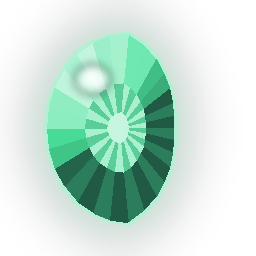
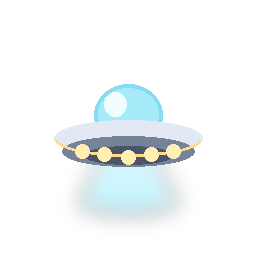
Bonanza: the feed, the skip, the saucer - seven fixes across the game
1. DOUBLE CHANCE on is dark-and-gold now, never a gold slab: a glowing
   frame and a warm wash over the same dark panel, every line readable
2. the balance stays frozen through a whole feature: the 20s hold
   watchdog is re-armed each free spin (refreshHold in balanceStore),
   settling once when the last spin ends
3. pressing SPIN (or SPACE) during a round SKIPS it: sleeps drop to
   0.15x, the picture rides --fx, and the button shows a red stop
   square while the reels run; each feature round earns its own skip
4. big wins: no more screen shake; the total slams to full size when
   the count finishes or is skipped
5. popped winners STAY collapsed until the refill replaces them -
   clearing the pop classes early snapped them back to full size for a
   beat, which is why they never seemed to pop away
6. the equation veil is GONE: at settlement every symbol left on the
   board is dragged into its nearest black hole and eaten (distance-
   staggered spiral, sparks feeding), then the combined multiplier
   slams in over the open board - the holes never leave sight, which
   was also why they seemed to vanish
7. the green low symbol is a flying saucer now (silver hull, cyan dome,
   gold rim lights, tractor glow) - the emerald has no twin. Engine id
   unchanged; only art and label

Machine-verified: ante design, frozen balance across a 24s window,
skip timing (2.8s vs 22s), stop-square button, pops holding, saucer on
[…]

diff --git a/web/src/space/BonanzaSpace.jsx b/web/src/space/BonanzaSpace.jsx
@@ -15,7 +15,7 @@
 import { useState, useEffect, useRef, useCallback, useMemo } from "react";
 import { useNavigate } from "react-router-dom";
 import { apiPost, apiGet } from "../api";
-import { useBalance, holdBalance, releaseBalance } from "../lib/balanceStore";
+import { useBalance, holdBalance, releaseBalance, refreshHold } from "../lib/balanceStore";
 import { fmtMKD } from "./format";
 import { beep, sfx, whoosh, useVol, cycleVol, VOL_LABELS, startAmbient, armAmbientOnGesture } from "./spaceAudio";
 import { useMaxBet } from "./limits";
@@ -28,13 +28,13 @@ const COLS = 6, ROWS = 5, CELLS = COLS * ROWS;
 const GEM = "/space/gems/";
 const LOW = ["citrine", "amethyst", "rose", "jade"];
 const NAMES = {
-  citrine: "CITRINE", amethyst: "AMETHYST", rose: "ROSE", jade: "JADE",
+  citrine: "CITRINE", amethyst: "AMETHYST", rose: "ROSE", jade: "SAUCER",
   sapphire: "SAPPHIRE", emerald: "EMERALD", lunar: "LUNAR", ruby: "RUBY", scatter: "COMET",
 };
 const src = (id) => GEM + (id === "scatter" ? "comet" : id) + ".png";
 // shard colour per symbol — the debris should be the colour of the thing that broke
 const SPARK = {
-  citrine: "#ffc44a", amethyst: "#b074ff", rose: "#ff7eb2", jade: "#56e0a0",
+  citrine: "#ffc44a", amethyst: "#b074ff", rose: "#ff7eb2", jade: "#5fd9e8",
   sapphire: "#56a2ff", emerald: "#34e28c", lunar: "#dfe7f5", ruby: "#ff5260", scatter: "#ffd68a",
 };
 // cell index -> percentage centre inside the grid
@@ -262,6 +262,7 @@ export default function BonanzaSpace() {
   const [ante, setAnte] = useState(false);
   const [turbo, setTurbo] = useState(false);
   const [spaceTurbo, setSpaceTurbo] = useState(false); // armed by HOLDING space
+  const [ff, setFf] = useState(false);             // second press = skip the reveal
   const [table, setTable] = useState(null);
   const [rules, setRules] = useState(false);
   const [error, setError] = useState("");
@@ -280,12 +281,14 @@ export default function BonanzaSpace() {
   const [introOut, setIntroOut] = useState(false); // the congrats plaque shrinking away
   const [dropMode, setDropMode] = useState("open"); // open = staggered rain, tumble = one fast drop
   const [buyAsk, setBuyAsk] = useState(false);     // ARE YOU SURE before money leaves
-  const [mathShow, setMathShow] = useState(null);  // the meteor equation banner
+  const [devour, setDevour] = useState(null);      // cell -> vector into its black hole
+  const [multBadge, setMultBadge] = useState(null); // the combined multiplier slam
 
   const deadRef = useRef(false);
   const heldRef = useRef(false);
   const timers = useRef([]);
   const armRef = useRef(null);                     // the hold-to-turbo timer
+  const ffRef = useRef(false);
   const turboRef = useRef(false);
   turboRef.current = turbo || spaceTurbo;
   const startedRef = useRef(null);                // resolved when START is pressed
@@ -298,13 +301,13 @@ export default function BonanzaSpace() {
   const payRowsRef = useRef([]);
 
   const later = (fn, ms) => { const t = setTimeout(fn, ms); timers.current.push(t); return t; };
-  const sleep = (ms) => new Promise((res) => later(res, Math.round(ms * (turboRef.current ? 0.35 : 1))));
+  const sleep = (ms) => new Promise((res) => later(res, Math.round(ms * (turboRef.current ? 0.35 : 1) * (ffRef.current ? 0.15 : 1))));
   // The reference ticks its WIN line linearly at ~30 steps a second and never
   // snaps; this drives ours the same way. Amounts are MKD.
   const countTo = (target, ms) => new Promise((res) => {
     const from = winDisplayRef.current;
     if (Math.abs(target - from) < 0.005) { winDisplayRef.current = target; setWinDisplay(target); return res(); }
-    const dur = Math.max(80, Math.round(ms * (turboRef.current ? 0.35 : 1)));
+    const dur = Math.max(80, Math.round(ms * (turboRef.current ? 0.35 : 1) * (ffRef.current ? 0.15 : 1)));
     const t0 = performance.now();
     const tick = () => {
       if (deadRef.current) return res();
@@ -367,11 +370,13 @@ export default function BonanzaSpace() {
   const sweepOut = async () => {
     // reads a REF, not state: playSpin is a useCallback([]) and would otherwise
     // close over the first render's empty board and never sweep anything
-    if (!gridRef.current.some(Boolean)) return;
+    // a fed board holds only black holes; they still deserve their exit
+    if (!gridRef.current.some(Boolean) && orbsRef.current.length === 0) return;
     setExiting(true);
     // .45s of travel + the bottom-first row cascade (240ms) + the column wave
-    // (275ms): the last symbol to leave is the top-right one, at ~965ms
-    await sleep(1000);
+    // (275ms): the last symbol to leave is the top-right one, at ~965ms.
+    // A fed board holds only black holes - a shorter goodbye.
+    await sleep(gridRef.current.some(Boolean) ? 1000 : 600);
     setExiting(false);
   };
 
@@ -428,6 +433,7 @@ export default function BonanzaSpace() {
     for (let i = 0; i < sp.steps.length; i++) {
       if (deadRef.current) return;
       const step = sp.steps[i];
+      if (i === 0) { ffRef.current = false; setFf(false); }  // each round earns its own skip
       setPhase("drop");
       setWinCells(new Set()); setPopCells(new Set());
       if (i === 0) {
@@ -518,7 +524,10 @@ export default function BonanzaSpace() {
         setPopCells(new Set(cells));
         await sleep(400);
         if (deadRef.current) return;
-        setWinCells(new Set()); setPopCells(new Set());
+        // the pop classes are NOT cleared here: clearing them snapped the
+        // burst symbols back to full size for a beat before the refill -
+        // "they don't pop to disappear". The next iteration clears them in
+        // the same render that places the new grid.
         await sleep(170);                  // the holes sit open for a beat
       }
     }
@@ -570,19 +579,38 @@ export default function BonanzaSpace() {
   const meteorMath = async (sp) => {
     const gap = (sp.win - (sp.baseWin ?? 0)) * lineBetRef.current;
     if (gap <= 0.004) return;
-    const raw = (sp.baseWin ?? 0) * lineBetRef.current;
-    const showEquation = (sp.multiplier ?? 1) > 1 && raw > 0;
-    if (showEquation) {
-      setMathShow({ raw: fmtMKD(raw), mult: sp.multiplier, total: fmtMKD(sp.win * lineBetRef.current) });
-      orbsRef.current.forEach((o) => feedAt(o.cell));   // the holes FEED
-      bnMusic.riser(0.9); bnSfx.orb(sp.multiplier);
-      await sleep(750);                    // the equation reads before it pays
+    const feed = (sp.multiplier ?? 1) > 1 && (sp.baseWin ?? 0) > 0 && orbsRef.current.length > 0;
+    if (feed) {
+      // THE FEED: every symbol left on the board is dragged into its nearest
+      // black hole and eaten. No veil over the reels - the holes stay in
+      // sight the whole time. Then the combined multiplier slams in and the
+      // WIN line climbs by the multiplied round.
+      const holes = orbsRef.current.map((o) => ({ c: o.cell % COLS, r: Math.floor(o.cell / COLS) }));
+      const orbAt = new Set(orbsRef.current.map((o) => o.cell));
+      const map = {};
+      gridRef.current.forEach((id, k) => {
+        if (!id || orbAt.has(k)) return;
+        const c = k % COLS, r = Math.floor(k / COLS);
+        let best = holes[0], bd = 1e9;
+        holes.forEach((h) => { const dd = (h.c - c) ** 2 + (h.r - r) ** 2; if (dd < bd) { bd = dd; best = h; } });
+        map[k] = { dx: (best.c - c) * 105, dy: (best.r - r) * 105, dist: Math.sqrt(bd) };
+      });
+      setDevour(map);
+      orbsRef.current.forEach((o) => feedAt(o.cell));
+      if (!sample("scatter", { v: 0.7 })) bnMusic.riser(0.9);
+      bnSfx.orb(sp.multiplier);
+      await sleep(780);                    // they spiral in and vanish
       if (deadRef.current) return;
-      bnMusic.bigWin(); quake(500);
+      const empty = Array(CELLS).fill(null);
+      gridRef.current = empty;
+      setGrid(empty);                      // eaten for real
+      setDevour(null);
+      setMultBadge({ mult: sp.multiplier, total: fmtMKD(sp.win * lineBetRef.current) });
+      bnMusic.bigWin();
     }
-    await countTo(winDisplayRef.current + gap, showEquation ? 900 : 400);
+    await countTo(winDisplayRef.current + gap, feed ? 950 : 400);
     setFreeWin((w) => w + (sp.win - (sp.baseWin ?? 0)));
-    if (showEquation) { await sleep(750); setMathShow(null); }
+    if (feed) { await sleep(700); setMultBadge(null); }
   };
 
   const run = async (mode) => {
@@ -590,6 +618,7 @@ export default function BonanzaSpace() {
     const lineBet = Math.max(50, Math.min(bet, MAX_BET));
     const cost = mode === "buy" ? (table?.buyPrice ?? 68.15) : mode === "ante" ? (table?.anteCost ?? 1.25) : 1;
     if (balance < lineBet * cost) { setError("NOT ENOUGH CREDITS"); return; }
+    ffRef.current = false; setFf(false);
     setError(""); setSpinning(true); setRoundWin(0); setSettledWin(null);
     winDisplayRef.current = 0; setWinDisplay(0); setSubline(null);
     // the win rows tear down one at a time, bottom-up, like the reference
@@ -644,6 +673,7 @@ export default function BonanzaSpace() {
         for (let i = first; i < data.rounds.length; i++) {
           if (deadRef.current) return;
           setFreeLeft(data.rounds.length - i);  // decrements BEFORE the reels move
+          refreshHold();                        // the watchdog must outlive the feature
           await sleep(170);
           await playSpin(data.rounds[i], true);
           if (deadRef.current) return;
@@ -664,7 +694,6 @@ export default function BonanzaSpace() {
         setBigWin({ label: tier, amount: fmtMKD(0) });
         const stung = sample(tier === "COSMIC WIN" ? "cosmicwin" : "megawin", { v: 1 });
         if (tier === "COSMIC WIN" || !stung) { bnSfx.fanfare(); bnMusic.bigWin(); }
-        quake(900);
         bnMusic.tally(dur / 1000);
         const t0 = performance.now();
         for (;;) {
@@ -675,7 +704,7 @@ export default function BonanzaSpace() {
           if (k >= 1 || skipRef.current) break;
           await sleep(45);
         }
-        setBigWin({ label: tier, amount: fmtMKD(data.payout) });
+        setBigWin({ label: tier, amount: fmtMKD(data.payout), done: true });
         bnSfx.win();
         await sleep(1300);
         setBigWin(null);
@@ -716,7 +745,8 @@ export default function BonanzaSpace() {
   runRef.current = () => {
     if (bigRef.current) { skipRef.current = true; return; }
     if (startedRef.current) { const go = startedRef.current; startedRef.current = null; go(); return; }
-    if (rules || buyAsk || spinning) return;
+    if (spinning) { ffRef.current = true; setFf(true); return; }  // second press skips
+    if (rules || buyAsk) return;
     run(ante ? "ante" : "base");
   };
 
@@ -752,7 +782,12 @@ export default function BonanzaSpace() {
                   // every duration and delay is scaled by --fx, which the
                   // bn-fast root class drops to .38 - turbo now speeds the
                   // PICTURE, not just the timers, so the fall always finishes
-                  const move = exiting ? {
+                  const dv = devour && devour[i];
+                  const move = dv ? {
+                    transform: `translate3d(${dv.dx}%, ${dv.dy}%, 0) scale(.04) rotate(220deg)`,
+                    transition: `transform calc(var(--fx,1) * .5s) cubic-bezier(.6,-.1,.9,.5) calc(var(--fx,1) * ${Math.round(dv.dist * 55)}ms)`,
+                    willChange: "transform",
+                  } : exiting ? {
                     transform: "translate3d(0, 672%, 0)",
                     transition: `transform calc(var(--fx,1) * .45s) cubic-bezier(.55,0,.85,.4) calc(var(--fx,1) * ${col * 55 + (ROWS - 1 - row) * 60}ms)`,
                     willChange: "transform",
@@ -783,10 +818,10 @@ export default function BonanzaSpace() {
                     </div>
                   );
                 }),
-    [grid, shifts, settled, exiting, winCells, popCells, dropMode, phase, orbCells]);
+    [grid, shifts, settled, exiting, winCells, popCells, dropMode, phase, orbCells, devour]);
 
   return (
-    <div className={"bn-root" + (shake ? " bn-shake" : "") + (turbo || spaceTurbo ? " bn-fast" : "")}>
+    <div className={"bn-root" + (shake ? " bn-shake" : "") + (turbo || spaceTurbo || ff ? " bn-fast" : "")}>
       <NovaSky />
       <div className={"bn-stage" + (stage ? " on" : "")} aria-hidden="true" />
       <div className="bn-flash" style={{ opacity: flash }} />
@@ -861,7 +896,7 @@ export default function BonanzaSpace() {
             )}
             <span className="bn-dia tl" /><span className="bn-dia tr" /><span className="bn-dia bl" /><span className="bn-dia br" />
 
-            <div className={"bn-panel" + (inFeature ? " feature" : phase === "win" || phase === "pop" ? " winning" : "") + (mathShow ? " mathing" : "")}>
+            <div className={"bn-panel" + (inFeature ? " feature" : phase === "win" || phase === "pop" ? " winning" : "") + (devour || multBadge ? " mathing" : "")}>
               {/* effect layers are clipped; the grid is NOT, or the drop would
                   be guillotined at the panel edge */}
               <div className="bn-fx">
@@ -900,22 +935,17 @@ export default function BonanzaSpace() {
                 })}
               </div>
 
-              {mathShow && (
-                <div className="bn-math">
-                  <span className="bn-math-kicker">BLACK HOLE TOTAL</span>
-                  <div className="bn-math-row">
-                    <span className="bn-math-part">{mathShow.raw}</span>
-                    <span className="bn-math-x">×{mathShow.mult}</span>
-                    <span className="bn-math-eq">=</span>
-                    <span className="bn-math-total">{mathShow.total}</span>
-                  </div>
+              {multBadge && (
+                <div className="bn-multbadge">
+                  <span className="bn-multbadge-x">×{multBadge.mult}</span>
+                  <span className="bn-multbadge-total">{multBadge.total}</span>
                 </div>
               )}
               {bigWin && (
                 <div className="bn-bigwin" onClick={() => { skipRef.current = true; }}>
                   <span className="bn-rays" />
                   <div className="bn-bigwin-label">{bigWin.label}</div>
-                  <div className="bn-bigwin-amount">{bigWin.amount}</div>
+                  <div className={"bn-bigwin-amount" + (bigWin.done ? " slam" : "")}>{bigWin.amount}</div>
                   <div className="bn-bigwin-skip">TAP TO SKIP</div>
                 </div>
               )}
@@ -987,8 +1017,10 @@ export default function BonanzaSpace() {
 
           <div className="bn-spin-cluster">
             <button type="button" onClick={() => stepBet(-1)} disabled={!idle || lineBet <= 50} className="bn-step minus" aria-label="Lower bet">−</button>
-            <button type="button" onClick={() => run(ante ? "ante" : "base")} disabled={!canSpin}
-              className={"bn-spin" + (spinning ? " busy" : "")} aria-label="Spin">
+            <button type="button"
+              onClick={() => { if (spinning) { ffRef.current = true; setFf(true); } else run(ante ? "ante" : "base"); }}
+              disabled={!canSpin && !spinning}
+              className={"bn-spin" + (spinning ? " busy" : "")} aria-label={spinning ? "Skip" : "Spin"}>
               <span className="bn-spin-ring" />
               <svg viewBox="0 0 24 24" fill="none" stroke="currentColor" strokeWidth="2.6" strokeLinecap="round">
                 <path d="M21 12a9 9 0 1 1-3.2-6.9" /><path d="M21 3v6h-6" />

diff --git a/web/src/space/bonanza.css b/web/src/space/bonanza.css
@@ -326,11 +326,19 @@
   box-shadow: inset 0 1px 0 rgba(255,255,255,.24), 0 8px 22px rgba(0,0,0,.45);
   overflow: hidden; transition: all .2s ease;
 }
-.bn-ante.on { border-color: rgba(246,241,230,.55); background: linear-gradient(180deg,#f3e0b0 0%,#d9b26a 34%,#a9843e 72%,#6d5220 100%); }
+/* ON is dark and lit, never a gold slab: a glowing gold frame and a warm
+   wash over the same dark panel, so every line stays readable */
+.bn-ante.on {
+  border-color: #f0d99a;
+  background:
+    radial-gradient(120% 100% at 50% 0%, rgba(240,200,110,.22), transparent 55%),
+    linear-gradient(180deg,#3b4767 0%,#262f47 46%,#151c2c 100%);
+  box-shadow: inset 0 1px 0 rgba(255,235,190,.4), 0 0 26px rgba(240,200,110,.4), 0 8px 22px rgba(0,0,0,.45);
+}
 .bn-ante-gloss { position: absolute; left: 0; right: 0; top: 0; height: 34%; background: linear-gradient(180deg, rgba(255,255,255,.2), rgba(255,255,255,0)); }
 .bn-ante > span:not(.bn-ante-gloss), .bn-ante > button { position: relative; }
 .bn-ante-label { font-size: clamp(10px,1.5vh,17px); font-weight: 700; letter-spacing: 3px; color: #a8b2c4; }
-.bn-ante.on .bn-ante-label, .bn-ante.on .bn-ante-state { color: #5b4312; }
+.bn-ante.on .bn-ante-label, .bn-ante.on .bn-ante-state { color: #ffe9b6; }
 .bn-ante-bet { font-size: clamp(15px,2.5vh,31px); font-weight: 700; line-height: 1; color: #f0d99a; text-shadow: 0 2px 4px rgba(0,0,0,.45); white-space: nowrap; }
 .bn-ante.on .bn-ante-bet, .bn-ante.on .bn-ante-title { color: #2a1e05; }
 .bn-ante-rule { width: 74%; height: 1px; background: #46536e; }
@@ -981,7 +989,44 @@
   letter-spacing: 4px; color: #8a94a8; animation: bnPressPulse 1.6s ease-in-out .8s infinite;
 }
 
-/* DOUBLE CHANCE when ON: everything must read on gold */
-.bn-ante.on .bn-ante-bet { color: #241a04; text-shadow: 0 1px 0 rgba(255,255,255,.4); }
-.bn-ante.on .bn-ante-title { color: #3d2c08; }
-.bn-ante.on .bn-ante-rule { background: rgba(60,45,10,.4); }
+/* DOUBLE CHANCE when ON: gold accents on the dark panel */
+.bn-ante.on .bn-ante-bet { color: #fff; text-shadow: 0 0 20px rgba(255,220,140,.8); }
+.bn-ante.on .bn-ante-title { color: #f0d99a; }
+.bn-ante.on .bn-ante-rule { background: rgba(240,200,110,.35); }
+
+/* the spin button is the STOP button while the reels run - press to skip */
+.bn-spin.busy { border-color: #e0564e; }
+.bn-spin.busy svg { display: none; }
+.bn-spin.busy::after {
+  content: ""; width: 26%; height: 26%; border-radius: 5px;
+  background: #7a1f1a; box-shadow: inset 0 1px 0 rgba(255,255,255,.3);
+}
+
+/* the combined multiplier slams in over the OPEN board - no veil */
+.bn-multbadge {
+  position: absolute; inset: 0; z-index: 13; pointer-events: none;
+  display: flex; flex-direction: column; align-items: center; justify-content: center;
+  gap: clamp(2px,.8vh,10px);
+}
+.bn-multbadge-x {
+  font-size: clamp(44px,11vh,120px); font-weight: 700; line-height: 1; color: #ffd76b;
+  text-shadow: 0 0 44px rgba(255,196,90,.95), 0 4px 10px rgba(0,0,0,.9);
+  animation: bnBadgeIn .5s cubic-bezier(.2,1.7,.4,1) both;
+}
+.bn-multbadge-total {
+  font-size: clamp(20px,4.4vh,50px); font-weight: 700; color: #3ae0a1;
+  text-shadow: 0 0 30px rgba(46,230,166,.7), 0 3px 8px rgba(0,0,0,.9);
+  animation: bnBadgeIn .5s cubic-bezier(.2,1.7,.4,1) .18s both;
+}
+@keyframes bnBadgeIn {
+  from { transform: scale(.15) rotate(-10deg); opacity: 0; }
+  to   { transform: scale(1) rotate(0); opacity: 1; }
+}
+
+/* the skipped (or finished) big-win total slams to full size */
+.bn-bigwin-amount.slam { animation: bnSlam .55s cubic-bezier(.2,1.6,.4,1) both; }
+@keyframes bnSlam {
+  0%   { transform: scale(.7); }
+  55%  { transform: scale(1.3); }
+  100% { transform: scale(1); }
+}

diff --git a/web/src/lib/balanceStore.js b/web/src/lib/balanceStore.js
@@ -82,6 +82,16 @@ function settle() {
   if (typeof truth === "number" && truth !== shown) { shown = truth; publish(); }
 }
 
+// A long feature outlives the 20s watchdog; a replay that is still running
+// re-arms it without stacking another hold, so the balance stays frozen
+// until the LAST free spin has settled.
+export function refreshHold() {
+  if (holds > 0) {
+    clearTimeout(holdTimer);
+    holdTimer = setTimeout(() => { holds = 0; settle(); }, 20000);
+  }
+}
+
 export function releaseBalance() {
   if (holds > 0) holds--;
   if (holds === 0) { clearTimeout(holdTimer); settle(); }
